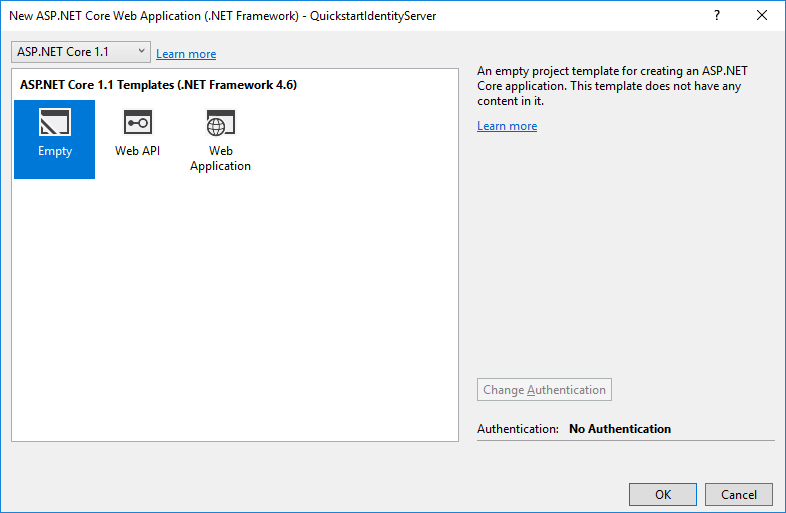
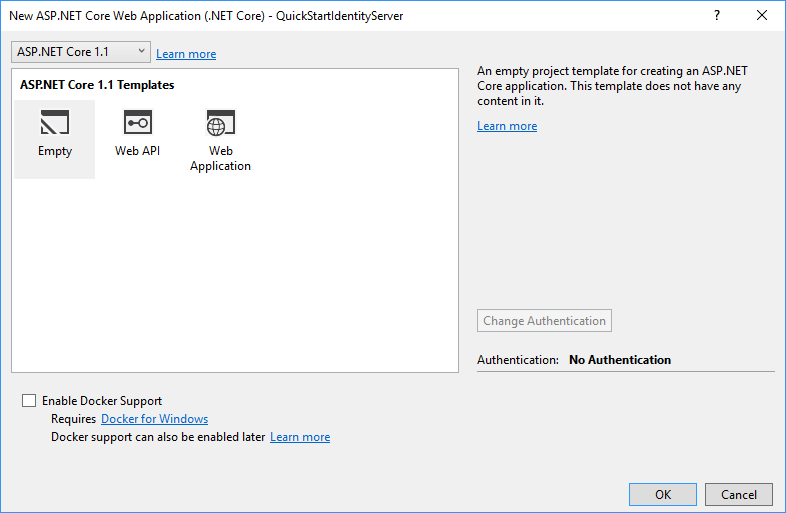
Update Screen shots to reflect latest versions.  Try to fix broken rst syntax

diff --git a/docs/quickstarts/0_overview.rst b/docs/quickstarts/0_overview.rst
@@ -29,7 +29,7 @@ Start by creating a new ASP.NET Core project.
 
 .. image:: images/0_new_web_project.png
 
-Then select the "Empty Web" option.
+Then select the "Empty" option.
 
 .. image:: images/0_empty_web.png
 
@@ -49,26 +49,30 @@ In ``Configure`` the middleware is added to the HTTP pipeline.
 
 Modify your ``Startup.cs`` file to look like this::
 
-    public class Startup
+  public class Startup
+  {
+    public void Configure(IApplicationBuilder app, IHostingEnvironment env, ILoggerFactory loggerFactory)
     {
-        public void ConfigureServices(IServiceCollection services)
-        {
-            services.AddIdentityServer()
-                .AddTemporarySigningCredential();
-        }
+      loggerFactory.AddConsole();
 
-        public void Configure(IApplicationBuilder app, ILoggerFactory loggerFactory)
-        {
-            loggerFactory.AddConsole(LogLevel.Debug);
-            app.UseDeveloperExceptionPage();
+      if (env.IsDevelopment())
+      {
+        app.UseDeveloperExceptionPage();
+      }
 
-            app.UseIdentityServer();
-        }
+      app.UseIdentityServer();
     }
+
+    public void ConfigureServices(IServiceCollection services)
+    {
+      services.AddIdentityServer()
+        .AddTemporarySigningCredential();
+    }
+  }
 
 ``AddIdentityServer`` registers the IdentityServer services in DI. It also registers an in-memory store for runtime state.
 This is useful for development scenarios. For production scenarios you need a persistent or shared store like a database or cache for that.
-See the :ref:`EntityFramework <refEntityFrameworkQuickstart>` quickstart for more information.
+See the :ref:`refEntityFrameworkQuickstart` quickstart for more information.
 
 The ``AddTemporarySigningCredential`` extension creates temporary key material for signing tokens on every start.
 Again this might be useful to get started, but needs to be replaced by some persistent key material for production scenarios.
